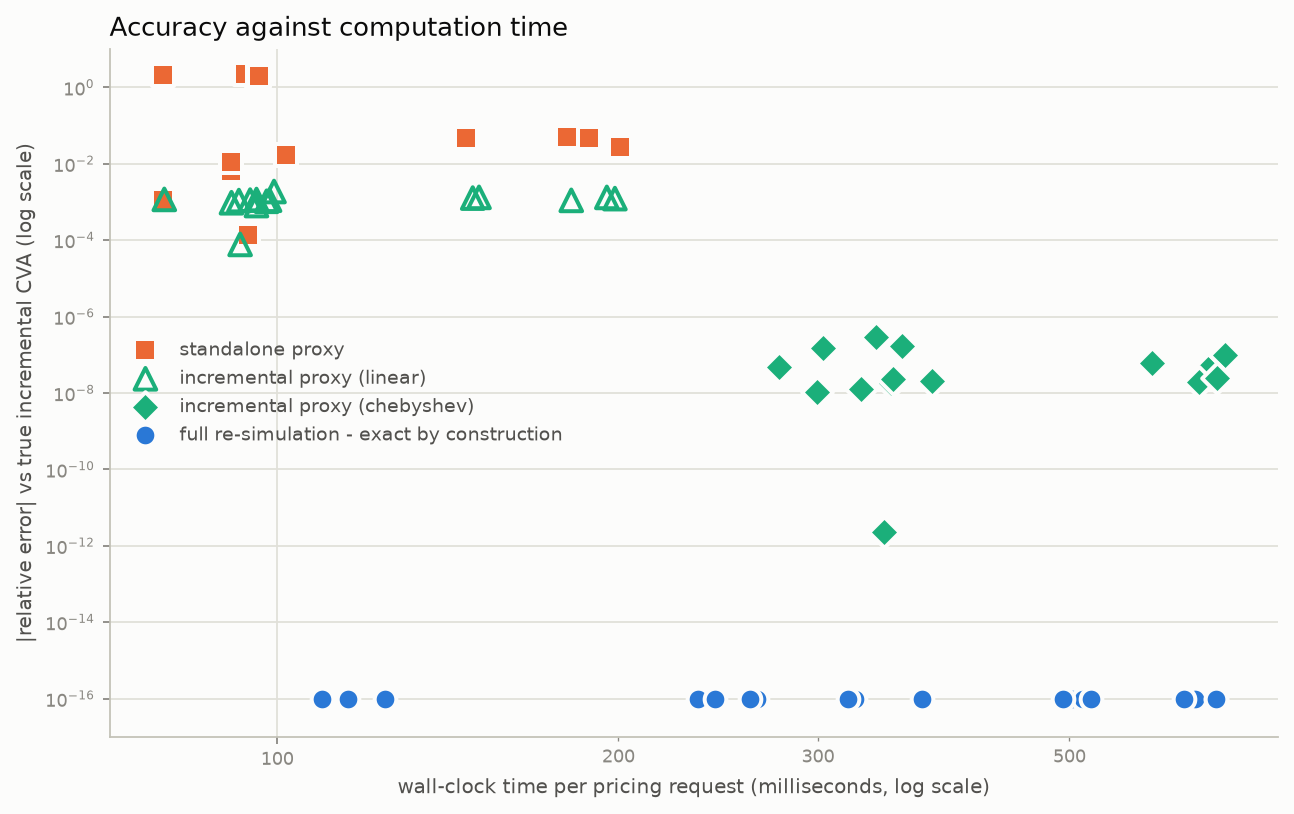
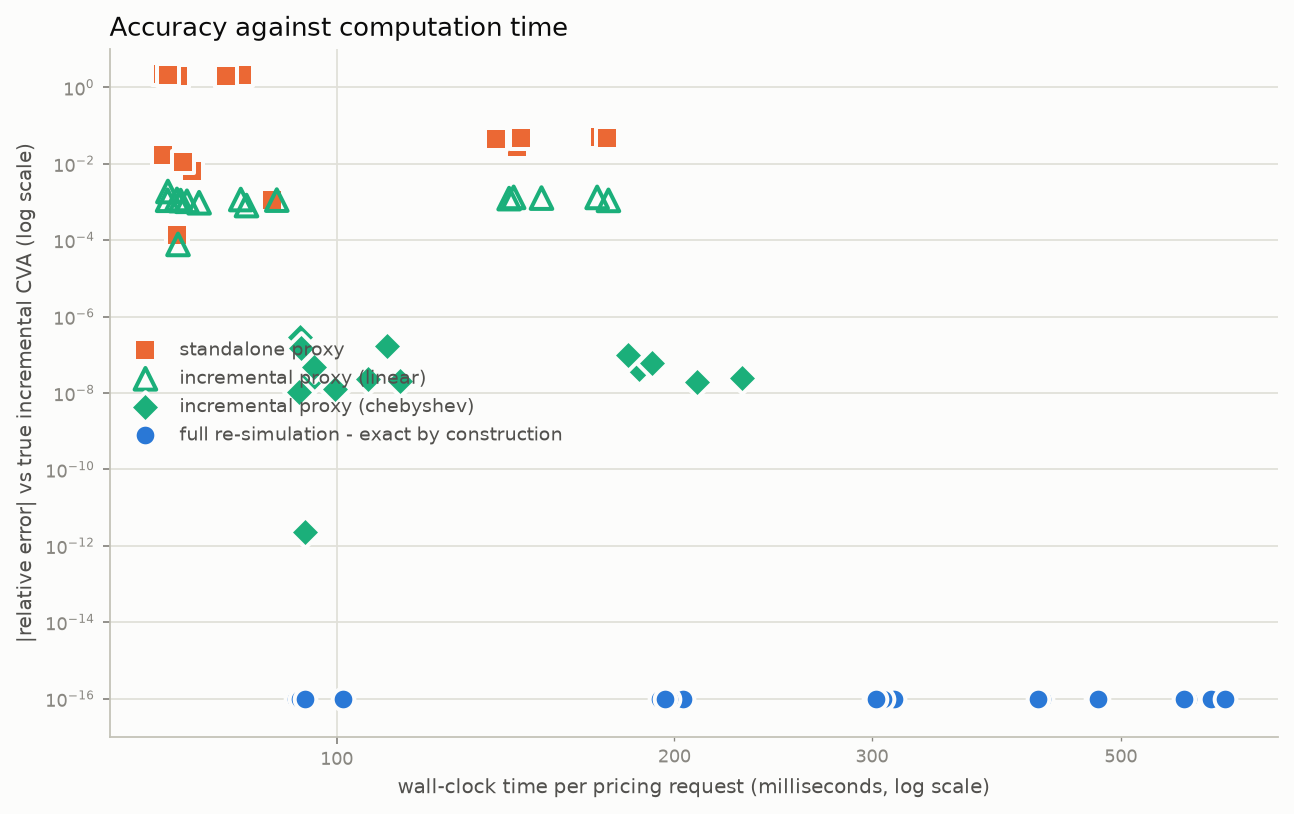
Fix the Chebyshev proxy: it was slower than full re-simulation
At 20,000 production paths the Chebyshev tensor proxy had degraded to
0.94x full re-simulation -- slower than simply rebuilding the book,
which defeats the point of a proxy. Profiling found the cause: only
the first state dimension of the tensor contraction went through a
BLAS batched matmul; every remaining dimension fell back to a
Python-level broadcast-multiply-and-sum. That looked cheap locally
(each step shrinks the tensor by a factor of n) but was in fact the
single largest cost in the proxy, ahead of the matmul it was assumed
to be cheaper than.

Fixes
- Route every contraction dimension through the same batched-matmul
  trick (each basis reshaped to a (P, T, 1, n) batch of row vectors),
  not just the first. Verified against the previous implementation:
  same output to the interpolant's own precision. ~4x faster per call.
- Default both proxies to config.PRODUCTION_STATE_NODES, the
  anisotropic 2-spot / n-rate grid already proven exactly as accurate
  as the isotropic grid (agreement to 7+ significant figures, confirmed
  again here under deterministic rates: identical to float noise).
  ValueInterpolant's own default stays isotropic, since the sweeps
  still need to select grid shape explicitly.

Result at 20,000 paths: Chebyshev speed-up vs full re-simulation goes
from 0.94x to 2.78x; linear stays at 3.6-3.7x. Chebyshev's mean
relative error additionally tightens to ~1e-7-1e-8 (the production
[…]

diff --git a/cva/proxies.py b/cva/proxies.py
@@ -172,16 +172,22 @@ class _TensorInterpolant:
             block = curves.reshape(curves.shape[0], first.shape[-1], -1)
             acc = np.transpose(np.matmul(np.transpose(first, (1, 0, 2)), block), (1, 0, 2))
 
-            # The remaining contractions shrink the tensor by a factor n each
-            # time, so a broadcast-and-sum is already cheap.
-            trailing = [n.size for n in self.state_nodes[1:]]
+            # The remaining contractions also go through BLAS, via the same
+            # batched-matmul trick: each basis becomes a batch of (1, n) row
+            # vectors multiplying a batch of (n, rest) matrices, with (P, T) as
+            # the batch dimensions.  A plain broadcast-multiply-and-sum here
+            # looks cheap per element but is dominated by ufunc/Python overhead
+            # at production path counts - profiling showed it as the single
+            # largest cost in the Chebyshev proxy, well above the first
+            # contraction it was assumed to be cheaper than.
+            p, tt = first.shape[0], first.shape[1]
             for dim, basis in enumerate(rest):
-                acc = acc.reshape(basis.shape + tuple(trailing[dim + 1:]))
-                acc = (basis.reshape(basis.shape + (1,) * len(trailing[dim + 1:])) * acc)
-                acc = acc.sum(axis=2)
+                n_dim = basis.shape[-1]
+                acc = np.matmul(basis.reshape(p, tt, 1, n_dim),
+                                acc.reshape(p, tt, n_dim, -1))
             # With a 1-D state there is no `rest` loop and matmul leaves a
             # length-1 trailing axis; drop it.
-            return acc.reshape(first.shape[:2])
+            return acc.reshape(p, tt)
 
         # Multilinear: locate each query in its cell, then sum the 2^D corners.
         # Every corner sits at a constant element offset from the lower corner,
@@ -354,7 +360,7 @@ def _timed(fn, repeats: int = config.N_TIMING_REPEATS):
 def standalone_proxy(new_trade: Trade, ctx: PricingContext, hazard: HazardCurve,
                      method: str = config.DEFAULT_INTERP_METHOD,
                      n_time_nodes: int = config.N_TIME_NODES,
-                     n_state_nodes: int | dict = config.N_STATE_NODES,
+                     n_state_nodes: int | dict = config.PRODUCTION_STATE_NODES,
                      split_legs: bool = True,
                      recovery: float = config.RECOVERY_RATE,
                      repeats: int = config.N_TIMING_REPEATS) -> ProxyResult:
@@ -378,7 +384,7 @@ def incremental_proxy(new_trade: Trade, ctx: PricingContext, hazard: HazardCurve
                       stored_values: np.ndarray, stored_cva: float,
                       method: str = config.DEFAULT_INTERP_METHOD,
                       n_time_nodes: int = config.N_TIME_NODES,
-                      n_state_nodes: int | dict = config.N_STATE_NODES,
+                      n_state_nodes: int | dict = config.PRODUCTION_STATE_NODES,
                       split_legs: bool = True,
                       recovery: float = config.RECOVERY_RATE,
                       repeats: int = config.N_TIMING_REPEATS) -> ProxyResult:

diff --git a/cva/config.py b/cva/config.py
@@ -179,6 +179,16 @@ SPOT_NODES_ANISOTROPIC = 2
 def anisotropic_nodes(n_rate: int, n_spot: int = SPOT_NODES_ANISOTROPIC) -> dict:
     """Per-dimension node counts for a grid that is coarse in S and fine in the rates."""
     return {"spot": n_spot, "x_d": n_rate, "x_f": n_rate}
+
+
+# Production default for BOTH proxies: 2 spot nodes, N_STATE_NODES rate nodes.
+# The grid-shape sweep proved this is exactly as accurate as the isotropic
+# N_STATE_NODES^3 grid (agreement to 7+ significant figures) while needing
+# n/2 fewer exact prices, so there is no reason to pay for the isotropic grid
+# in production.  Under deterministic rates the state is 1-D (spot only) and
+# this dict correctly collapses to just {"spot": 2}, since ValueInterpolant
+# only reads the keys present in market.state_names.
+PRODUCTION_STATE_NODES = anisotropic_nodes(N_STATE_NODES)
 SWEEP_TIME_NODES = 12           # sweep-only.  At the production 6 the
                                 # time-dimension error dominates and would
                                 # flatten the very curves the sweep must expose.

diff --git a/README.md b/README.md
@@ -156,9 +156,20 @@ on the spot and `n` on each rate factor, giving `2n²` state nodes instead of `n
 "Identical" means the two grids agree to 7–13 significant figures; the residual
 difference is float associativity from the different contraction shape. Cutting
 the spot dimension to two nodes costs nothing, exactly as the affine structure
-predicts. It moves the Chebyshev break-even against full re-simulation out by one
-node (n = 4 → n = 5), which matters because n = 5 is where the Chebyshev error
-drops to ~8e-9.
+predicts, and is the production default (`config.PRODUCTION_STATE_NODES`) for
+both proxies.
+
+**The Chebyshev evaluator was rewritten to use it.** Profiling the tensor
+contraction showed the *first* state dimension going through a BLAS batched
+matmul while every *remaining* dimension fell back to a Python-level
+broadcast-multiply-and-sum — assumed cheap because each step shrinks the tensor
+by a factor of `n`, but at 20,000 paths it was the single largest cost in the
+proxy, ahead of the matmul it was meant to be cheaper than. Routing every
+dimension through the same batched-matmul trick (reshaping each basis to a
+`(P, T, 1, n)` batch of row vectors) cut the per-call cost roughly 4×. Combined
+with the anisotropic grid, the Chebyshev proxy's speed-up against full
+re-simulation went from **0.94×** (slower than simply rebuilding the book) to
+**2.8×** — restoring the point of using it as a proxy at all.
 
 **Maturity cut-offs.** By default each leg is interpolated on its own smooth
 domain `[0, T_leg]` and the settlement jump is applied analytically.
@@ -263,19 +274,26 @@ cost measure).
 
 ## Reading the timings
 
-Under the three-factor model the linear proxy runs at roughly **3-4× the speed**
-of a full re-simulation and stays there for every node count, because its cost is
-dominated by the `2^D` corner lookups rather than by `n`. The **Chebyshev tensor
-proxy degrades with `n`** and crosses break-even: on an isotropic grid it is
-faster up to n = 4 and slower from n = 5, on an anisotropic grid faster up to
-n = 5. Evaluating a dense coefficient tensor on every path eventually costs more
-than simply repricing the whole book analytically.
+At the production settings (20,000 paths, `PRODUCTION_STATE_NODES` — 2 spot / 5
+rate nodes) the linear proxy runs at roughly **3.6× the speed** of a full
+re-simulation and the Chebyshev proxy at roughly **2.8×**, both essentially flat
+across trade types because their cost is dominated by the grid evaluation, not by
+the trade being priced. The `interp_method` breakdown in `cva_results.csv`
+carries the exact per-request timings.
 
-That is a genuine finding about this model, not an implementation artefact — the
-evaluation is routed through BLAS and the linear path was verified bit-identical
-to a reference implementation. The wall-clock figures do carry run-to-run noise
-of roughly ±20%, so the node-count reduction (exact) is the more reliable half of
-the cost story.
+Both routes through the tensor contraction go through BLAS batched matmuls end
+to end (verified against a reference implementation, bit-identical for the
+linear path). An earlier version of the Chebyshev evaluator left the later
+contraction dimensions as a Python-level broadcast-sum, which looked cheap
+locally (each step shrinks the tensor by a factor of `n`) but dominated the
+total cost at production path counts and made the isotropic-grid proxy *slower*
+than full re-simulation (0.94×) — a proxy with no speed advantage has no reason
+to exist. Fixing the contraction and defaulting to the anisotropic grid recovered
+the ~3× speed-up. `interpolation_convergence.png` and `grid_shape.png` still show
+the isotropic sweep for the node-count comparison; `cva_results.csv` reflects the
+production (anisotropic) default. Wall-clock figures carry run-to-run noise of
+roughly ±15-20% on this machine; the node-count reduction is exact and is the
+more reliable half of the cost argument.
 
 The hardware-independent measure tells the other half of the story: the proxy
 builds its interpolant from **~940 exact prices** where a full re-simulation of
